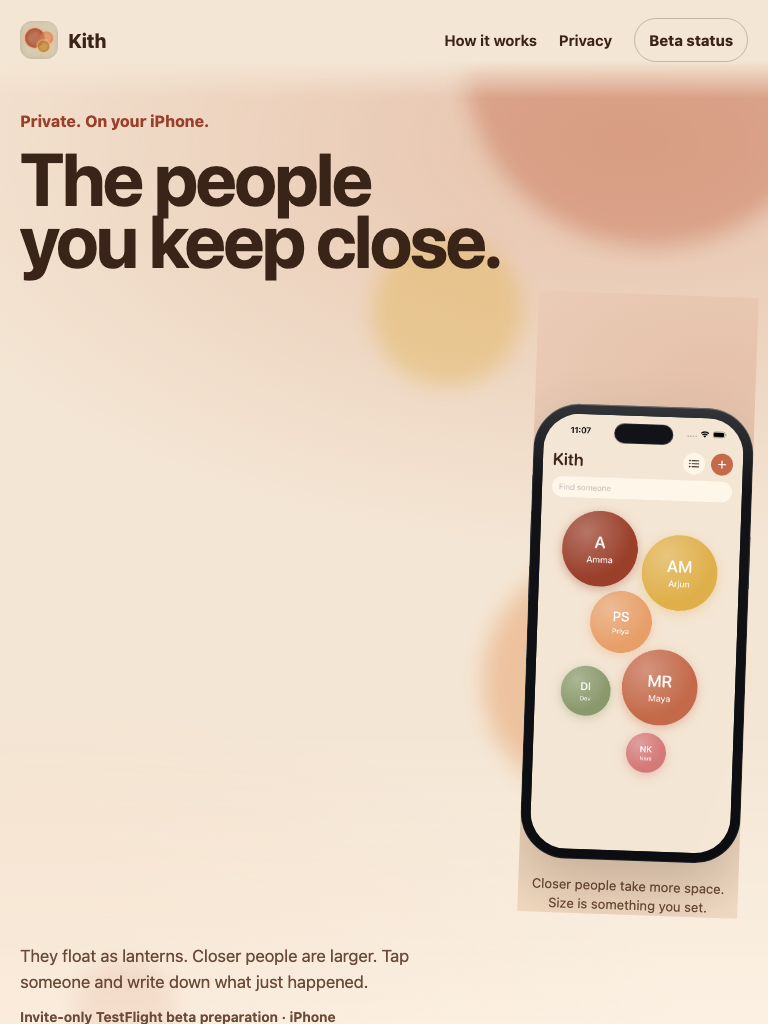
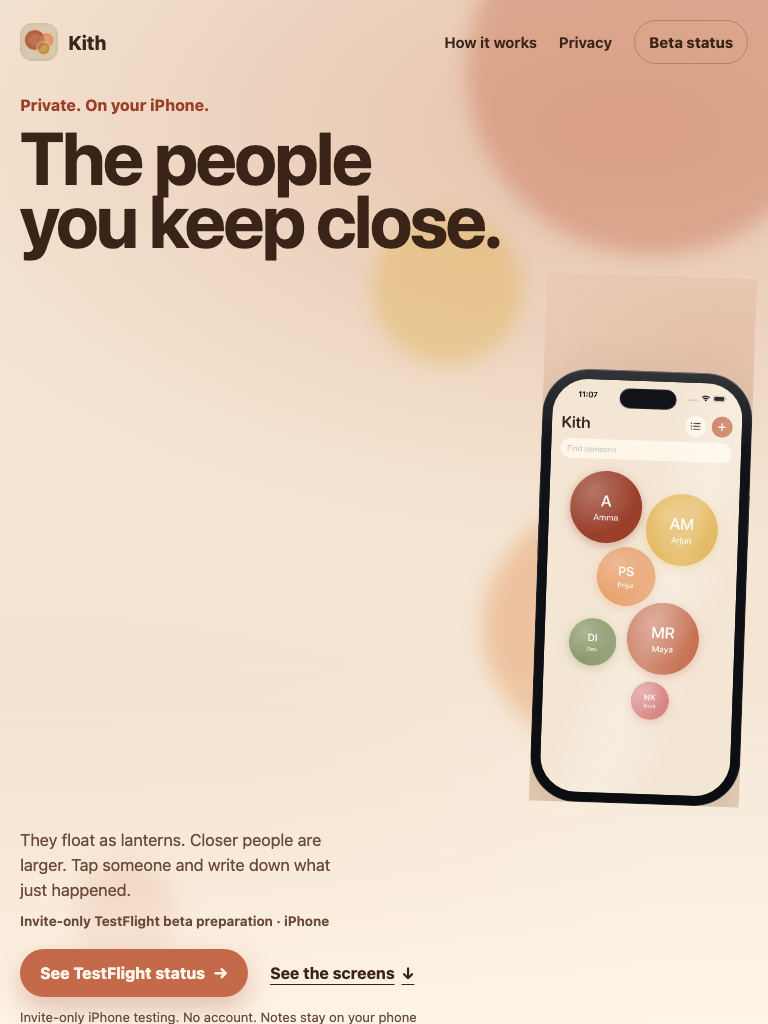
Finish the hero as one type stack beside the phone.
Kicker, headline, lede, and CTA stay together. The device no longer
opens a hole in the first screen or sits on the nav.

diff --git a/src/styles/landing.css b/src/styles/landing.css
@@ -19,7 +19,7 @@ Budget: no JS, composited props only, pause via reduced-motion.
   isolation: isolate;
   overflow: hidden;
   min-height: 100svh;
-  padding: 108px 0 0;
+  padding: 92px 0 0;
   background:
     radial-gradient(1200px 640px at 82% 12%, color-mix(in srgb, var(--lantern-a) 30%, transparent), transparent 64%),
     radial-gradient(900px 520px at 6% 92%, color-mix(in srgb, var(--lantern-b) 20%, transparent), transparent 72%),
@@ -57,31 +57,33 @@ Budget: no JS, composited props only, pause via reduced-motion.
   display: flex;
   flex-direction: column;
   justify-content: flex-end;
-  min-height: calc(100svh - 108px);
-  padding-bottom: 36px;
+  min-height: calc(100svh - 92px);
+  padding-bottom: 40px;
 }
-.hero-room > * { flex: 0 0 auto; }
+.hero-copy { display: contents; }
+.hero-intro { order: 1; }
+.hero-artifact { order: 2; }
+.hero-foot { order: 3; }
 .hero-kicker {
-  margin-bottom: 18px;
+  margin-bottom: 12px;
   color: var(--accent-dark);
   font-family: var(--display);
   font-size: clamp(1rem, 1.6vw, 1.18rem);
   font-weight: 760;
 }
-.hero-lead { position: relative; }
 .hero h1 {
   position: relative;
   z-index: 1;
   max-width: 11ch;
   font-size: clamp(3.1rem, 12vw, 4.6rem);
-  line-height: 0.84;
+  line-height: 0.86;
   letter-spacing: -0.03em;
 }
 .hero-artifact {
   position: relative;
   z-index: 2;
-  width: min(58%, 220px);
-  margin: 22px 0 0 auto;
+  width: min(58%, 210px);
+  margin: 22px 0 8px auto;
 }
 .hero-echo { display: none; }
 .hero-artifact .device.hero {
@@ -90,19 +92,22 @@ Budget: no JS, composited props only, pause via reduced-motion.
   width: 100%;
   max-width: none;
 }
-.hero-foot { max-width: 38ch; margin-top: 28px; }
+.hero-artifact .device.hero figcaption { display: none; }
+.hero-foot { max-width: 38ch; }
 .hero-lede {
+  max-width: 34ch;
+  margin-top: 16px;
   color: var(--ink-soft);
-  font-size: clamp(1.06rem, 1.7vw, 1.24rem);
-  line-height: 1.55;
+  font-size: clamp(1.04rem, 1.6vw, 1.18rem);
+  line-height: 1.5;
 }
-.hero-meta { margin-top: 14px; color: var(--ink-soft); font-size: 0.86rem; font-weight: 650; }
+.hero-meta { margin-top: 10px; color: var(--ink-soft); font-size: 0.84rem; font-weight: 650; }
 .hero-actions {
   display: flex;
   flex-wrap: wrap;
   align-items: center;
-  gap: 16px 24px;
-  margin-top: 26px;
+  gap: 12px 22px;
+  margin-top: 20px;
 }
 .text-link {
   display: inline-flex;
@@ -327,45 +332,51 @@ blockquote {
 }
 
 @media (min-width: 901px) {
-  .hero-lead {
-    display: grid;
-    grid-template-columns: minmax(0, 1fr) 200px;
-    align-items: end;
-    align-content: end;
-    column-gap: 12px;
-    height: auto;
+  .hero-copy {
+    display: flex;
+    flex-direction: column;
+    justify-content: flex-end;
+    gap: 18px;
+    max-width: 38ch;
   }
-  .hero-artifact,
+  .hero-intro { order: 0; }
+  .hero-foot { order: 0; }
+  .hero-artifact { order: 0; }
+  .hero-room {
+    display: grid;
+    grid-template-columns: minmax(0, 1fr) 188px;
+    column-gap: 36px;
+    align-items: end;
+  }
+  .hero-lede { margin-top: 0; }
+  .hero-artifact {
+    width: 188px;
+    margin: 0;
+    justify-self: end;
+    align-self: end;
+    height: auto;
+    min-height: 0;
+  }
   .hero-artifact .device.hero {
     height: auto;
     min-height: 0;
-    max-height: none;
-  }
-  .hero-artifact .device.hero .device-screen img {
-    width: 100%;
-    height: auto;
+    max-width: 100%;
   }
   .hero h1 {
-    margin-right: -36px;
-    font-size: clamp(3.5rem, 9vw, 5.8rem);
-  }
-  .hero-artifact {
-    width: 200px;
-    margin: 0;
-    justify-self: end;
+    margin-right: -28px;
+    font-size: clamp(3.4rem, 7.2vw, 5.4rem);
   }
   .hero-echo {
     display: block;
     position: absolute;
     z-index: 0;
-    right: 58%;
-    bottom: 16%;
-    width: 72%;
-    transform: rotate(-12deg);
-    opacity: 0.38;
+    right: 64%;
+    bottom: 18%;
+    width: 68%;
+    transform: rotate(-11deg);
+    opacity: 0.32;
     pointer-events: none;
   }
-  .hero-artifact .device.hero { max-width: 100%; }
 }
 
 @media (max-width: 900px) {
@@ -374,8 +385,8 @@ blockquote {
   .fit-grid,
   .faq,
   .founder-grid { grid-template-columns: 1fr; }
-  .hero { min-height: 0; padding-top: 112px; }
-  .hero-room { min-height: 0; }
+  .hero { min-height: 0; padding-top: 96px; }
+  .hero-room { min-height: 0; padding-bottom: 28px; }
   .hero-foot { max-width: 40ch; }
   .tension,
   .chapter-intro { padding-top: 76px; padding-bottom: 68px; }

diff --git a/src/styles/device.css b/src/styles/device.css
@@ -1,5 +1,5 @@
 .device { margin: 0; }
-.device.hero { width: 100%; max-width: 200px; height: auto; min-height: 0; }
+.device.hero { width: 100%; max-width: 188px; height: auto; min-height: 0; }
 .device.echo { width: 100%; }
 .device.gallery { flex: 0 0 min(268px, 72vw); transition: transform 400ms var(--ease-out); }
 .device.chapter { width: min(100%, 288px); justify-self: center; }

diff --git a/src/styles/global.css b/src/styles/global.css
@@ -64,13 +64,8 @@
     position: absolute;
     z-index: 30;
     inset: 0 0 auto;
-    padding: 18px 0 36px;
-    background: linear-gradient(
-      var(--field) 0%,
-      var(--field) 62%,
-      color-mix(in srgb, var(--field) 0%, transparent)
-    );
-    pointer-events: none;
+    padding: 20px 0 0;
+    background: none;
   }
   .site-header .shell,
   .site-header a {
